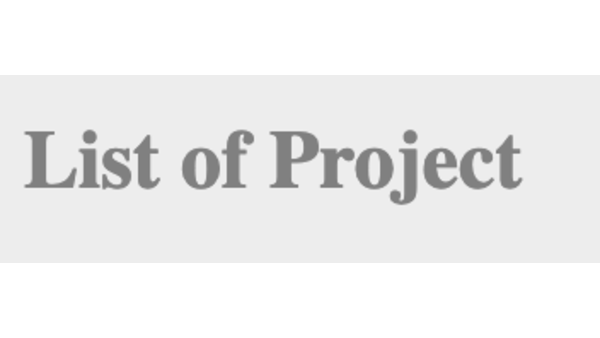
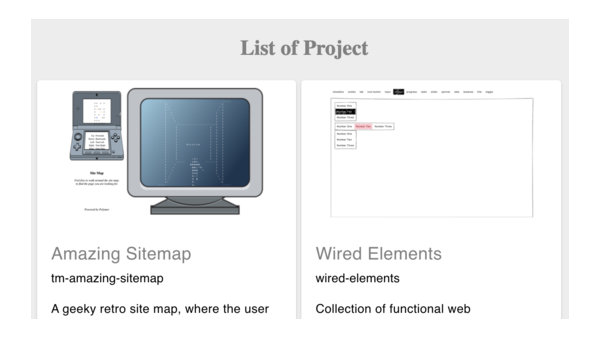
refined card layout styling

diff --git a/src/tm-project-list.js b/src/tm-project-list.js
@@ -28,51 +28,57 @@ class TmProjectList extends LitElement {
             <link rel="stylesheet" href="https://fonts.googleapis.com/icon?family=Material+Icons">
             <style>
                 :host {
+                    box-sizing: border-box;
                     display: inline-block;
+                    box-sizing: border-box;
+                    width: 100%;
                 }
                 h2 {
                     color: gray;
                 }
                 
-                @media only screen and (min-width: 300px) {
-                    tm-project-card {
-                        //border: solid blue 1px;
-                        width: 100%;
-                    }
+                tm-project-card {
+                    box-sizing: border-box;
                 }
-        
-                @media only screen and (min-width: 600px) {
-                    tm-project-card {
-                        //border: solid red 1px;
-                        width: 49%;
-                    }
+
+                .container {
+                    box-sizing: border-box;
+                    //border: solid green 1px;
+                    max-width: 1000px;
+                    margin-left: auto;
+                    margin-right: auto;
                 }
-        
-                @media only screen and (min-width: 900px) {
-                    tm-project-card {
-                        //border: solid red 1px;
-                        width: 33%;
-                    }
+
+                .card {
+                    display: inline-block;
+                    box-sizing: border-box;
+                    //border: solid blue 1px;
+                    padding: 3px;
                 }
-        
-                @media only screen and (min-width: 1200px) {
-                    tm-project-card {
-                        //border: solid blue 1px;
-                        width: 24.6%;
-                    }
+                
+                @media only screen and (max-width: 900px) { .container { width: 100%; } } 
+                
+                @media only screen and (min-width: 300px) { .card { width: 100%; } } 
+                @media only screen and (min-width: 600px) { .card { width: 49%; } } 
+                @media only screen and (min-width: 900px) { .card { width: 33.33%; } } 
+                
+                h2 {
+                    text-align: center;
                 }
             </style>
-            <h2>${this.heading}</h2>
-            ${this.projects.map(project => html`
-                <tm-project-card
-                image="${project.image}"
-                heading="${project.heading}"
-                subheading="${project.subheading}"
-                description="${project.description}"
-                demo="${project.demo}"
-                source="${project.source}"
-                documentation="${project.documentation}"></tm-project-card>
-            `)}
+            <div class="container">
+                <h2>${this.heading}</h2>
+                ${this.projects.map(project => html`<div class="card">
+                        <tm-project-card
+                        image="${project.image}"
+                        heading="${project.heading}"
+                        subheading="${project.subheading}"
+                        description="${project.description}"
+                        demo="${project.demo}"
+                        source="${project.source}"
+                        documentation="${project.documentation}"></tm-project-card>
+                    </div>`)}
+            </div>
         `;
     }
 

diff --git a/src/tm-project-card.js b/src/tm-project-card.js
@@ -1,5 +1,9 @@
 import {html, LitElement} from 'lit-element';
 
+import '@vaadin/vaadin-text-field/vaadin-text-field';
+import 'wired-elements/wired-helper';
+import 'wired-elements/wired-card';
+
 class TmProjectCard extends LitElement {
 
     // noinspection JSUnusedGlobalSymbols
@@ -23,13 +27,14 @@ class TmProjectCard extends LitElement {
     // noinspection JSUnusedGlobalSymbols
     render() {
         return html`
-<!--            <link href="material-components-web.css" rel="stylesheet">-->
             <link rel="stylesheet" href="https://unpkg.com/material-components-web@latest/dist/material-components-web.min.css">
             <link rel="stylesheet" href="https://fonts.googleapis.com/icon?family=Material+Icons">
             <style>  
                 /*@import "./mdc.card.css";*/
                 :host {
                   display: inline-block;
+                  box-sizing: border-box;
+                  width: 100%;
                 }
                 h2 {
                     color: gray;
@@ -46,7 +51,20 @@ class TmProjectCard extends LitElement {
                 .mdc-card__action-icons > label {
                     margin-right: 15px;;
                 }
+                
+                .mdc-card {
+                    box-sizing: border-box;
+                    //border: solid red 1px;
+                    height: 100%;
+                }
+                
+                .demo-card__secondary {
+                    display: inline-block;  
+                    height: 100px;
+                }
+
             </style>
+            
             <div class="mdc-card demo-card">
                 <div class="mdc-card__primary-action" tabindex="0">
                     <div class="mdc-card__media mdc-card__media--16-9 demo-card__media" style="background-image: url(${this.image});"></div>
@@ -55,7 +73,6 @@ class TmProjectCard extends LitElement {
                         <h3 class="demo-card__subtitle mdc-typography mdc-typography--subtitle2">${this.subheading}</h3>
                     </div>
                     <div class="demo-card__secondary mdc-typography mdc-typography--body2">${this.description}</div>
-           
                 </div>
                 <div class="mdc-card__actions">
                     <div class="mdc-card__action-buttons">

diff --git a/docs/demo.js b/docs/demo.js
@@ -26,7 +26,7 @@ render(html`
 
 document.querySelector('tm-project-list').setProjects([
     {
-        image: "https://raw.githubusercontent.com/tmcmaster/tm-project-list/develop/demo/images/tm-amazing-sitemap.png",
+        image: "images/tm-amazing-sitemap.png",
         heading: "Amazing Sitemap",
         subheading: "tm-amazing-sitemap",
         description: "A geeky retro site map, where the user can walk through a 3D maze, to find website pages.",
